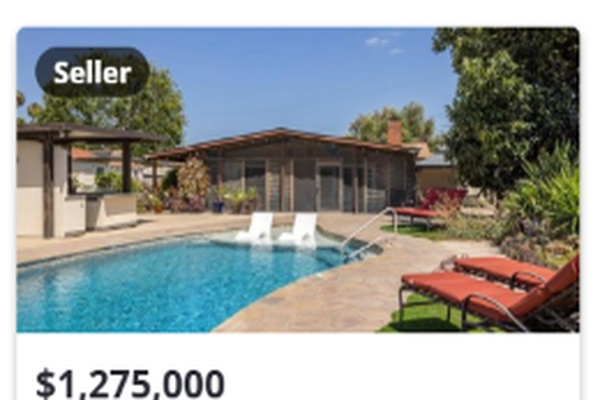
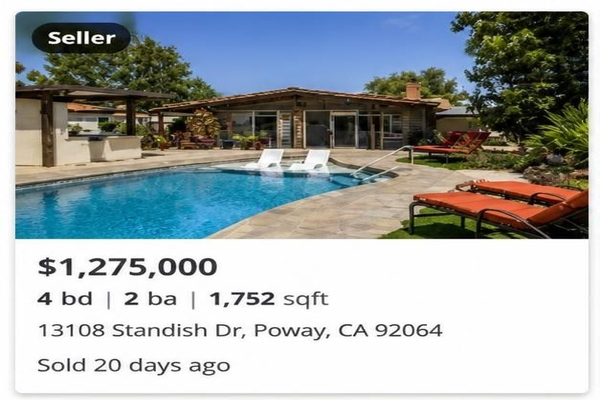
Replace property images with higher quality versions
Update to higher quality property photos:
- property-1-poway.jpg: Pool and patio view (121KB, up from 64KB)
- property-2-escondido.jpg: Front garage entrance (102KB, up from 52KB)
- property-3-sanmarcos.jpg: Multi-garage home (109KB, up from 58KB)
- property-4-carlsbad.jpg: Palm trees and pool view (133KB, up from 69KB)

Update asset blob URLs in HTML:
- Poway: /_blob/5d617e874c13fa9e3fe3459d39844439
- Escondido: /_blob/40d21cd82bb3a6e8e24ca4af7e29425d
- San Marcos: /_blob/4b1ffdfafdc79f61c8dbcc616db208e3
- Carlsbad: /_blob/d70ce72bcc6b352fbf17219765ac4af9

Add zip codes to all property locations for accuracy

diff --git a/index.html b/index.html
@@ -1225,7 +1225,7 @@
             <p class="section-subtitle">Showcase of successful sales across San Diego's most desirable coastal communities</p>
             <div class="properties-grid">
                 <div class="property-card">
-                    <div class="property-image" style="background: url('/_blob/55243270885aafe3084467f93848b622') center/cover no-repeat;">
+                    <div class="property-image" style="background: url('/_blob/5d617e874c13fa9e3fe3459d39844439') center/cover no-repeat;">
                         <span class="sample-badge">Sold</span>
                     </div>
                     <div class="property-info">
@@ -1235,13 +1235,13 @@
                             <div class="property-detail-item">2 Baths</div>
                             <div class="property-detail-item">1,752 Sq Ft</div>
                         </div>
-                        <div class="property-location">13108 Standish Dr, Poway, CA</div>
+                        <div class="property-location">13108 Standish Dr, Poway, CA 92064</div>
                         <a href="#contact" class="btn btn-primary">Learn How We Sold It</a>
                     </div>
                 </div>
 
                 <div class="property-card">
-                    <div class="property-image" style="background: url('/_blob/e5d00e965333c7799b0e3256b16174b1') center/cover no-repeat;">
+                    <div class="property-image" style="background: url('/_blob/40d21cd82bb3a6e8e24ca4af7e29425d') center/cover no-repeat;">
                         <span class="sample-badge">Sold</span>
                     </div>
                     <div class="property-info">
@@ -1251,13 +1251,13 @@
                             <div class="property-detail-item">3 Baths</div>
                             <div class="property-detail-item">2,383 Sq Ft</div>
                         </div>
-                        <div class="property-location">4045 Vortex Pl, Escondido, CA</div>
+                        <div class="property-location">4045 Vortex Pl, Escondido, CA 92029</div>
                         <a href="#contact" class="btn btn-primary">Learn How We Sold It</a>
                     </div>
                 </div>
 
                 <div class="property-card">
-                    <div class="property-image" style="background: url('/_blob/9af3a350acde8f5bbe2511d38df0592c') center/cover no-repeat;">
+                    <div class="property-image" style="background: url('/_blob/4b1ffdfafdc79f61c8dbcc616db208e3') center/cover no-repeat;">
                         <span class="sample-badge">Sold</span>
                     </div>
                     <div class="property-info">
@@ -1267,13 +1267,13 @@
                             <div class="property-detail-item">4 Baths</div>
                             <div class="property-detail-item">3,717 Sq Ft</div>
                         </div>
-                        <div class="property-location">2146 Coast Ave, San Marcos, CA</div>
+                        <div class="property-location">2146 Coast Ave, San Marcos, CA 92078</div>
                         <a href="#contact" class="btn btn-primary">Learn How We Sold It</a>
                     </div>
                 </div>
 
                 <div class="property-card">
-                    <div class="property-image" style="background: url('/_blob/7c6043b32bf9d62f811d2753d14dc9e8') center/cover no-repeat;">
+                    <div class="property-image" style="background: url('/_blob/d70ce72bcc6b352fbf17219765ac4af9') center/cover no-repeat;">
                         <span class="sample-badge">Sold</span>
                     </div>
                     <div class="property-info">
@@ -1283,7 +1283,7 @@
                             <div class="property-detail-item">3 Baths</div>
                             <div class="property-detail-item">2,464 Sq Ft</div>
                         </div>
-                        <div class="property-location">2738 La Costa Ave, Carlsbad, CA</div>
+                        <div class="property-location">2738 La Costa Ave, Carlsbad, CA 92009</div>
                         <a href="#contact" class="btn btn-primary">Learn How We Sold It</a>
                     </div>
                 </div>
